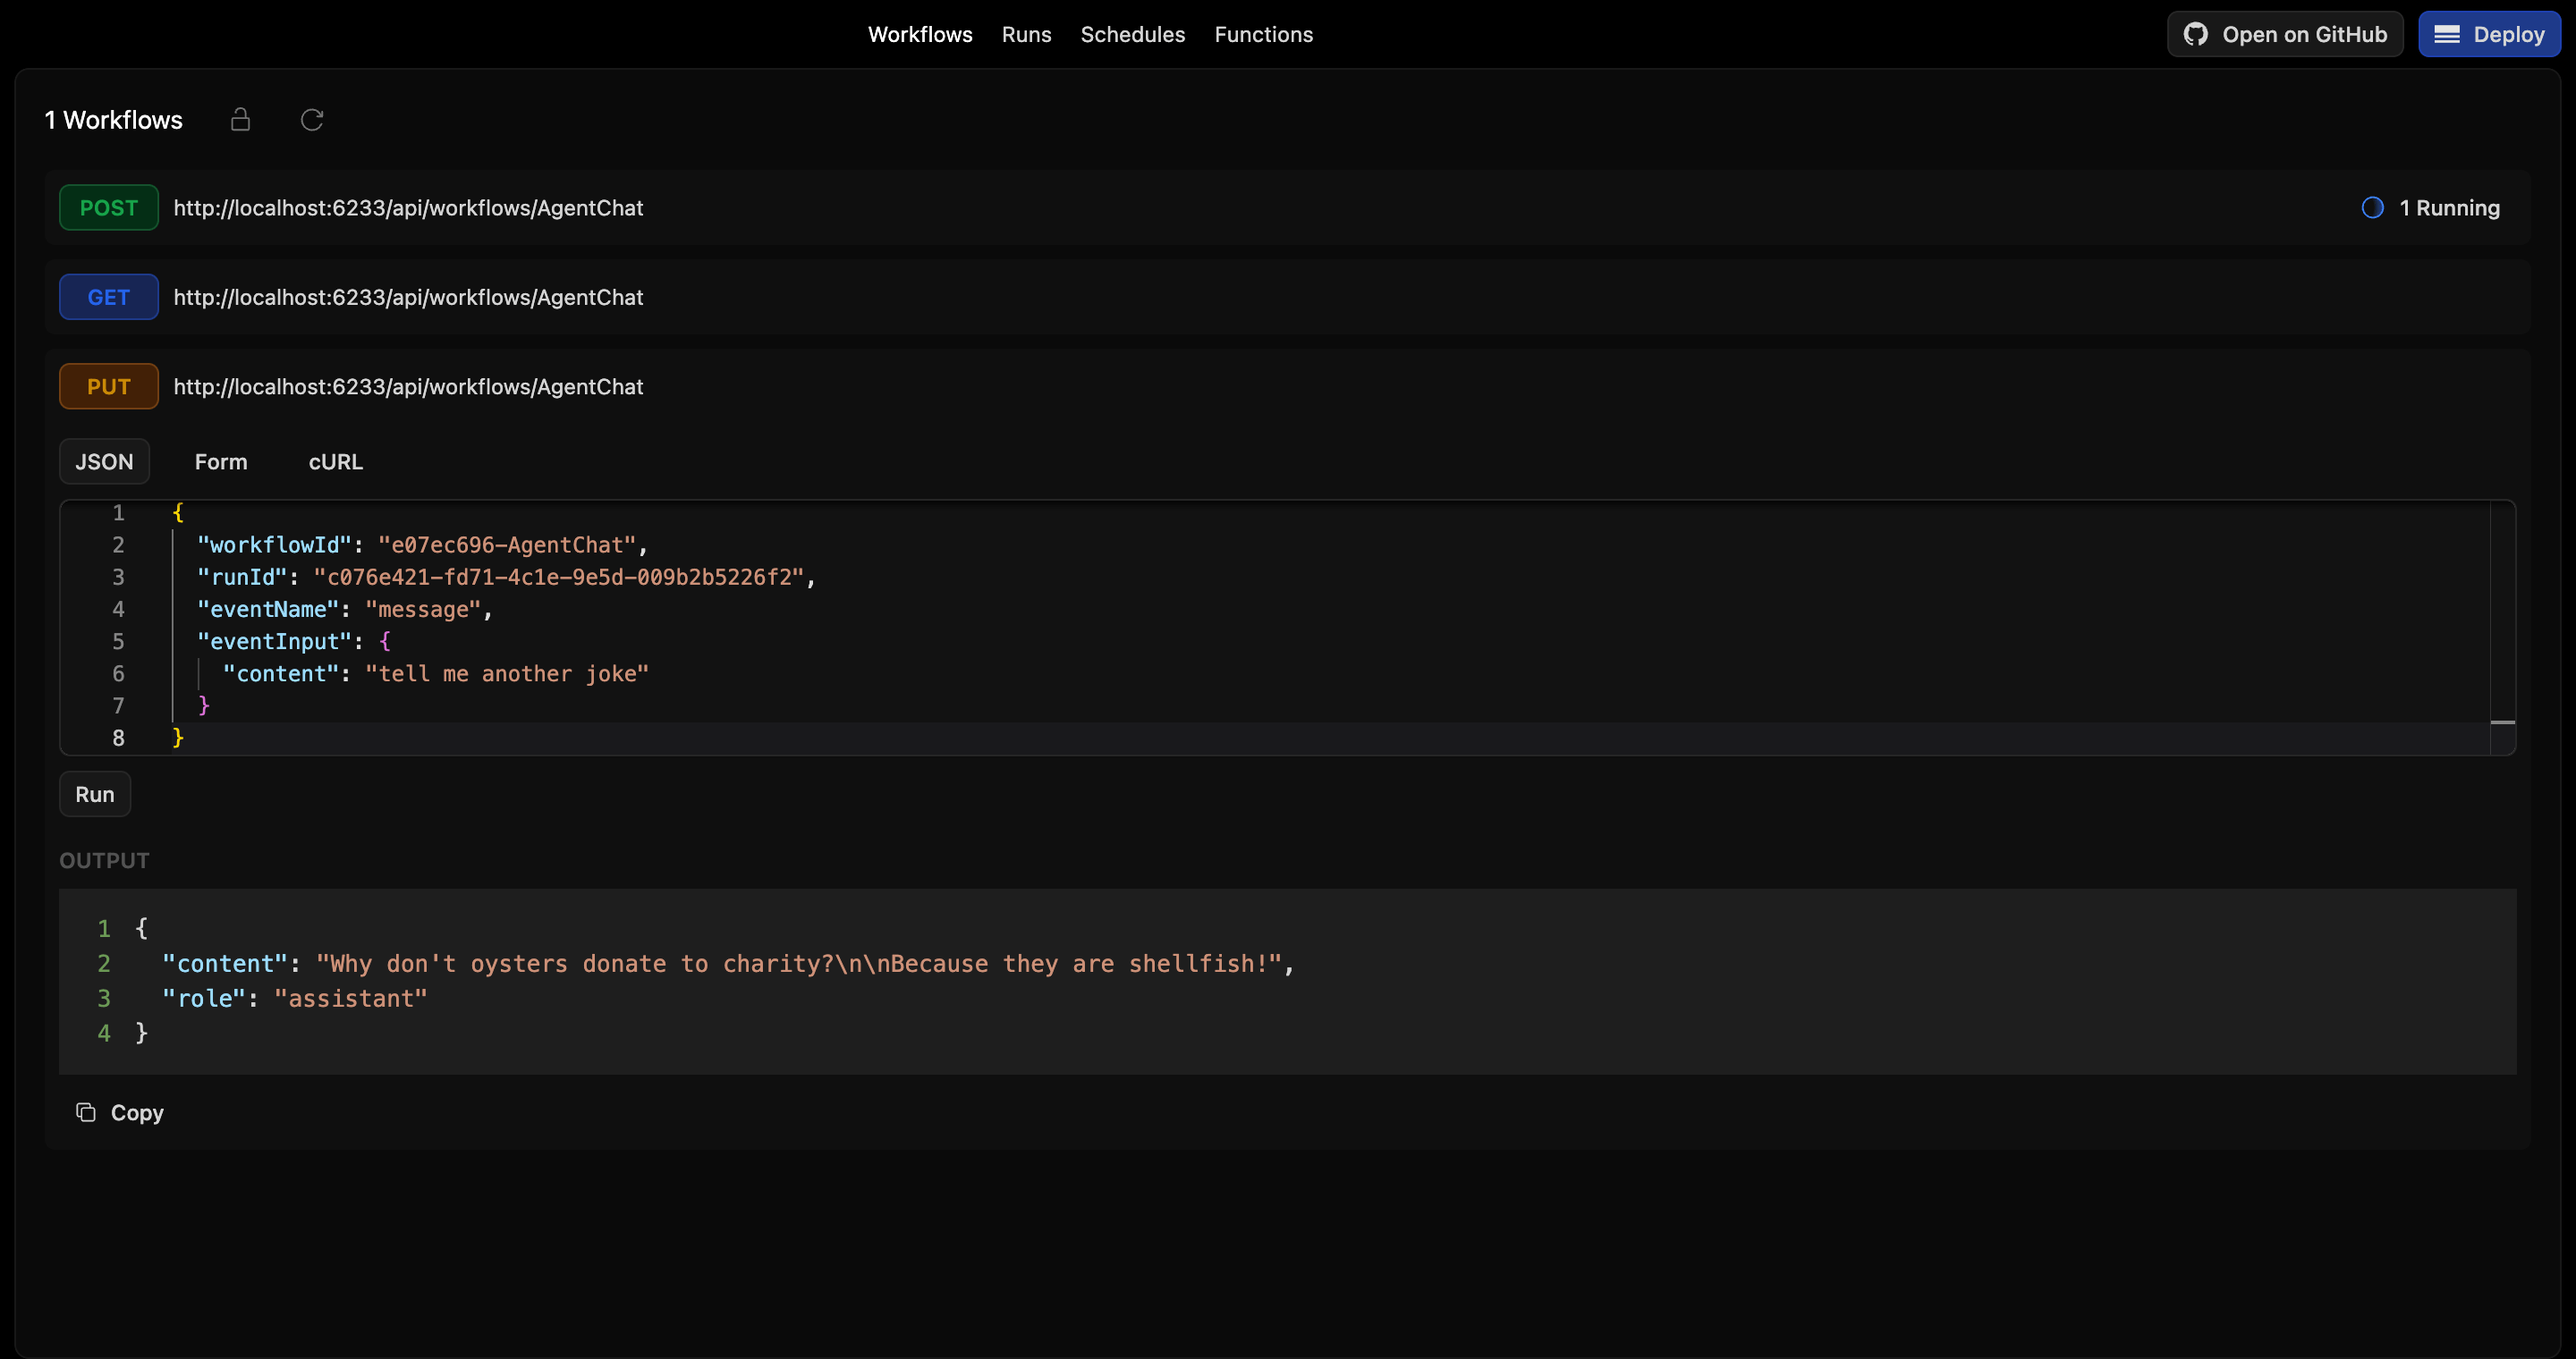
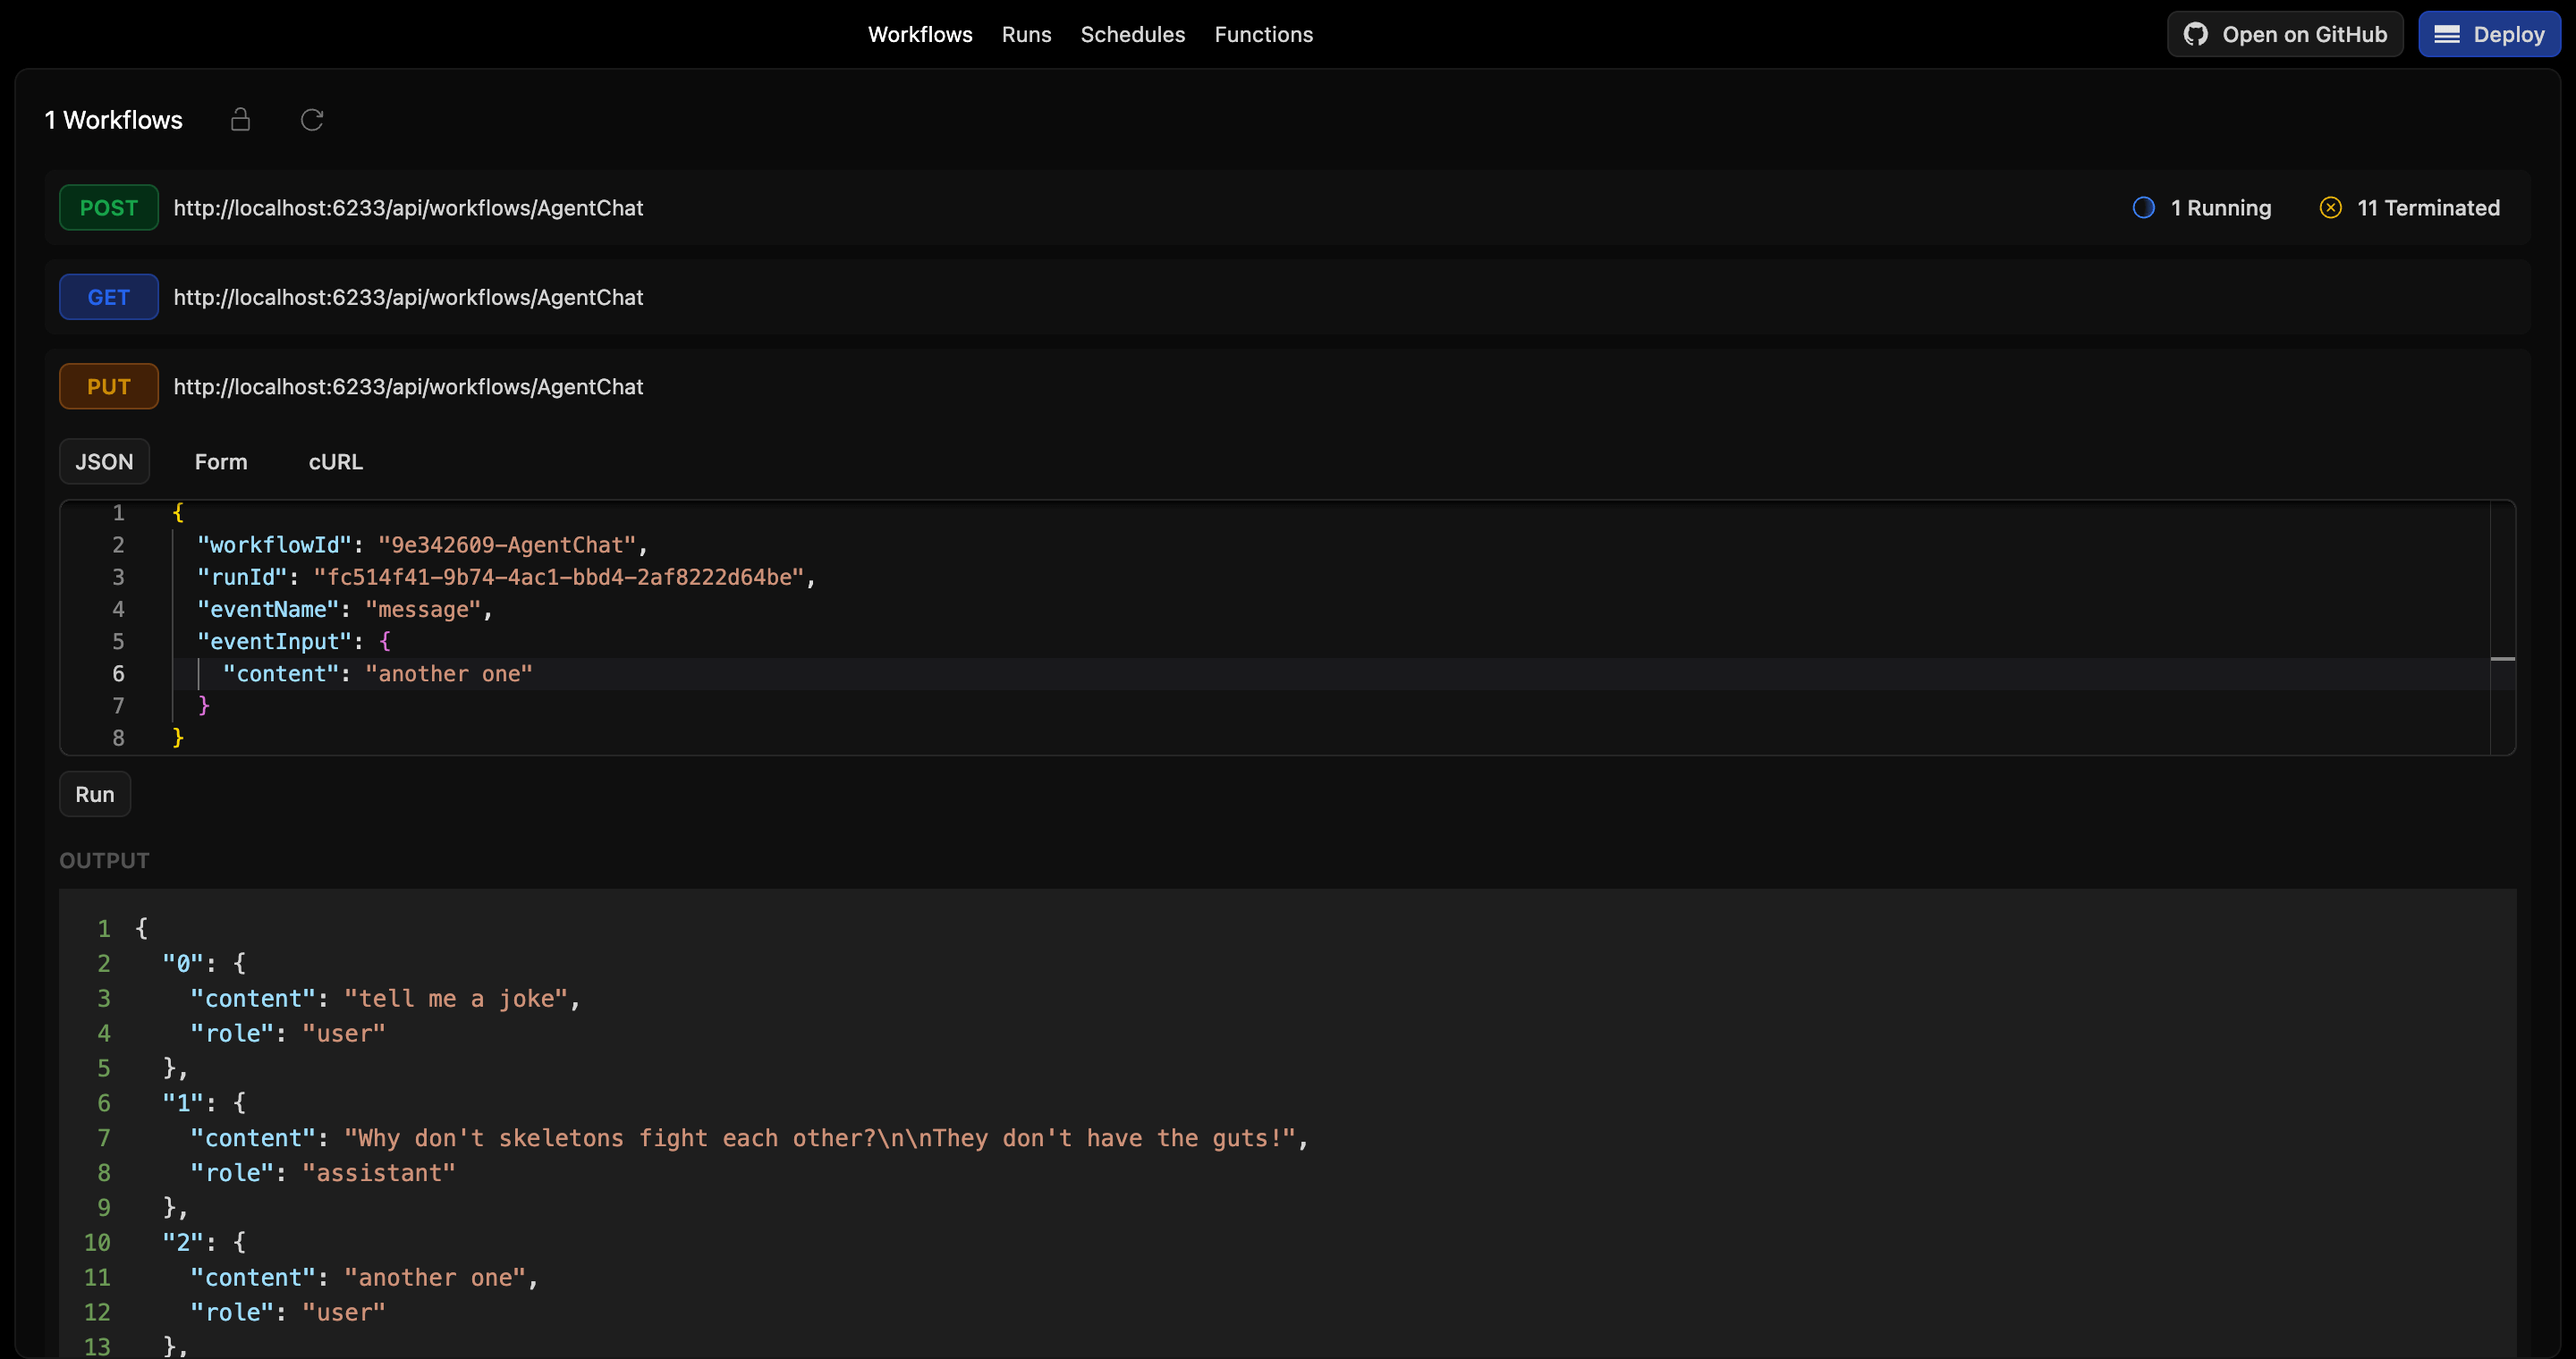
simplify

diff --git a/agent_chat/src/workflows/workflow.ts b/agent_chat/src/workflows/workflow.ts
@@ -6,21 +6,14 @@ export type EndEvent = {
   end: boolean;
 };
 
-export const messageEvent = defineEvent<functions.Message>("message");
-
+export const messageEvent = defineEvent<functions.Message[]>("message");
 export const endEvent = defineEvent("end");
-
-type AgentChatInput = {
-  message: string;
-};
 
 type AgentChatOutput = {
   messages: functions.Message[];
 };
 
-export async function agentChat({
-  message = "Hello, can you tell me a joke?",
-}: AgentChatInput): Promise<AgentChatOutput> {
+export async function agentChat(): Promise<AgentChatOutput> {
   let endReceived = false;
   let messages: functions.Message[] = [];
 
@@ -30,17 +23,12 @@ export async function agentChat({
       messages,
     });
     messages.push(result);
-    return result;
+    return messages;
   });
 
   onEvent(endEvent, async () => {
     endReceived = true;
   });
-
-  const result = await step<typeof functions>({}).llmChat({
-    messages: [{ role: "user", content: message }],
-  });
-  messages.push(result);
 
   // We use the `condition` function to wait for the event goodbyeReceived to return `True`.
   await condition(() => endReceived);

diff --git a/agent_chat/eventWorkflow.ts b/agent_chat/eventWorkflow.ts
@@ -10,7 +10,7 @@ async function eventWorkflow(input: EventInput) {
     await client.sendWorkflowEvent({
       event: {
         name: "message",
-        input: { content: "Telle ma another one" },
+        input: { content: "Tell me a joke" },
       },
       workflow: {
         workflowId: input.workflowId,
